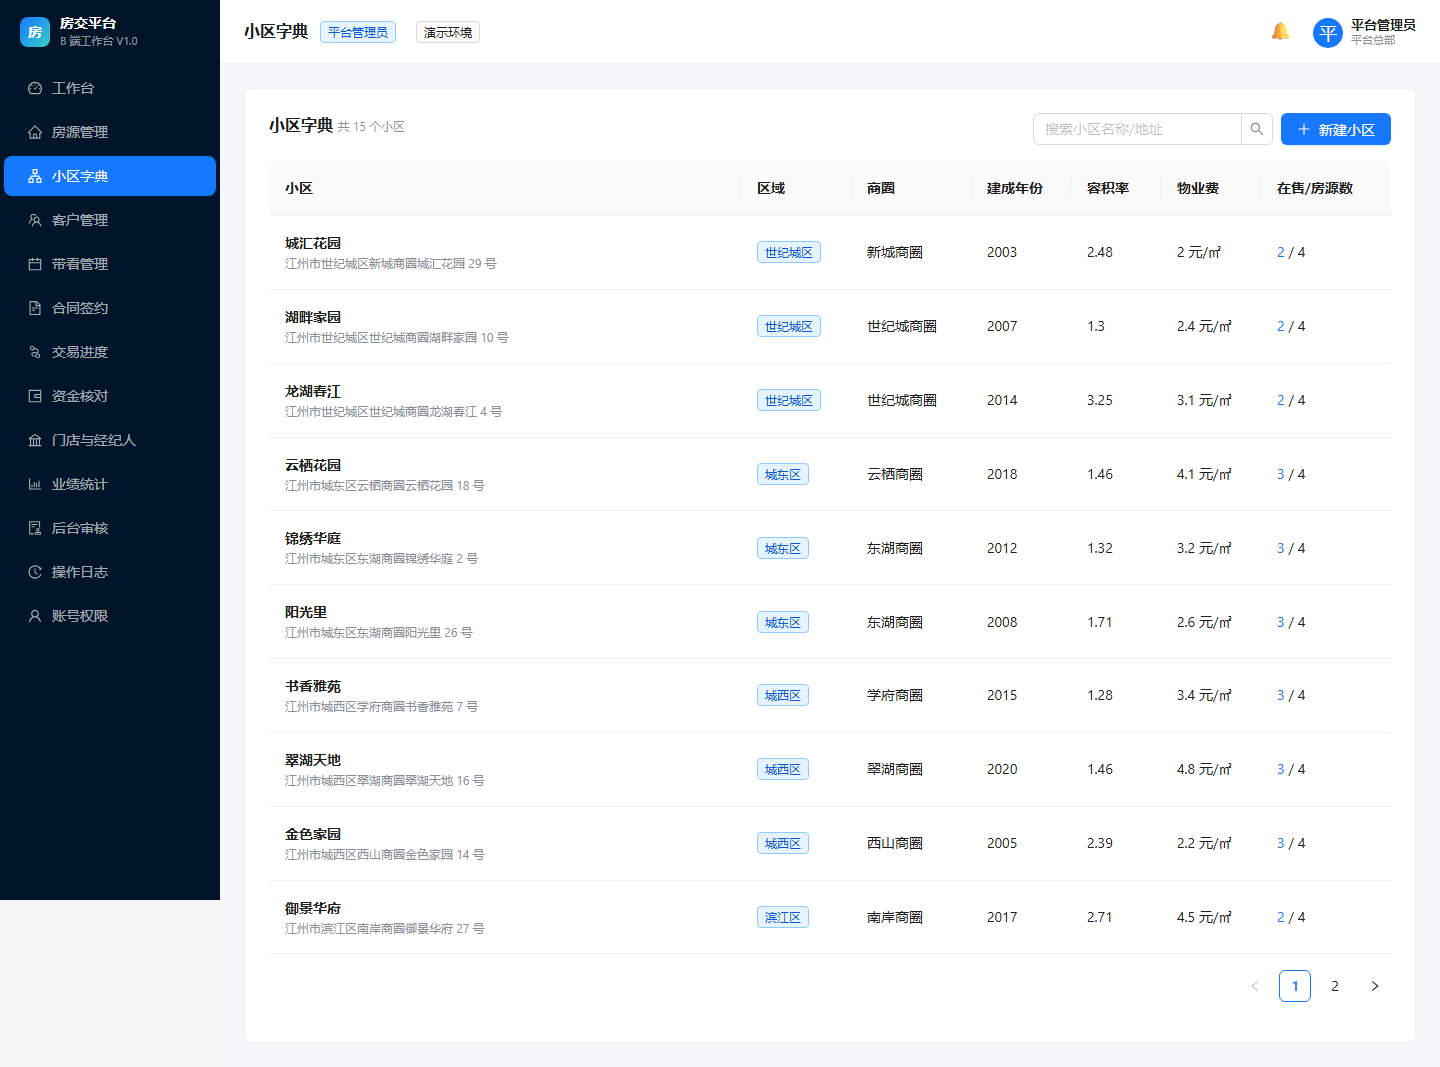
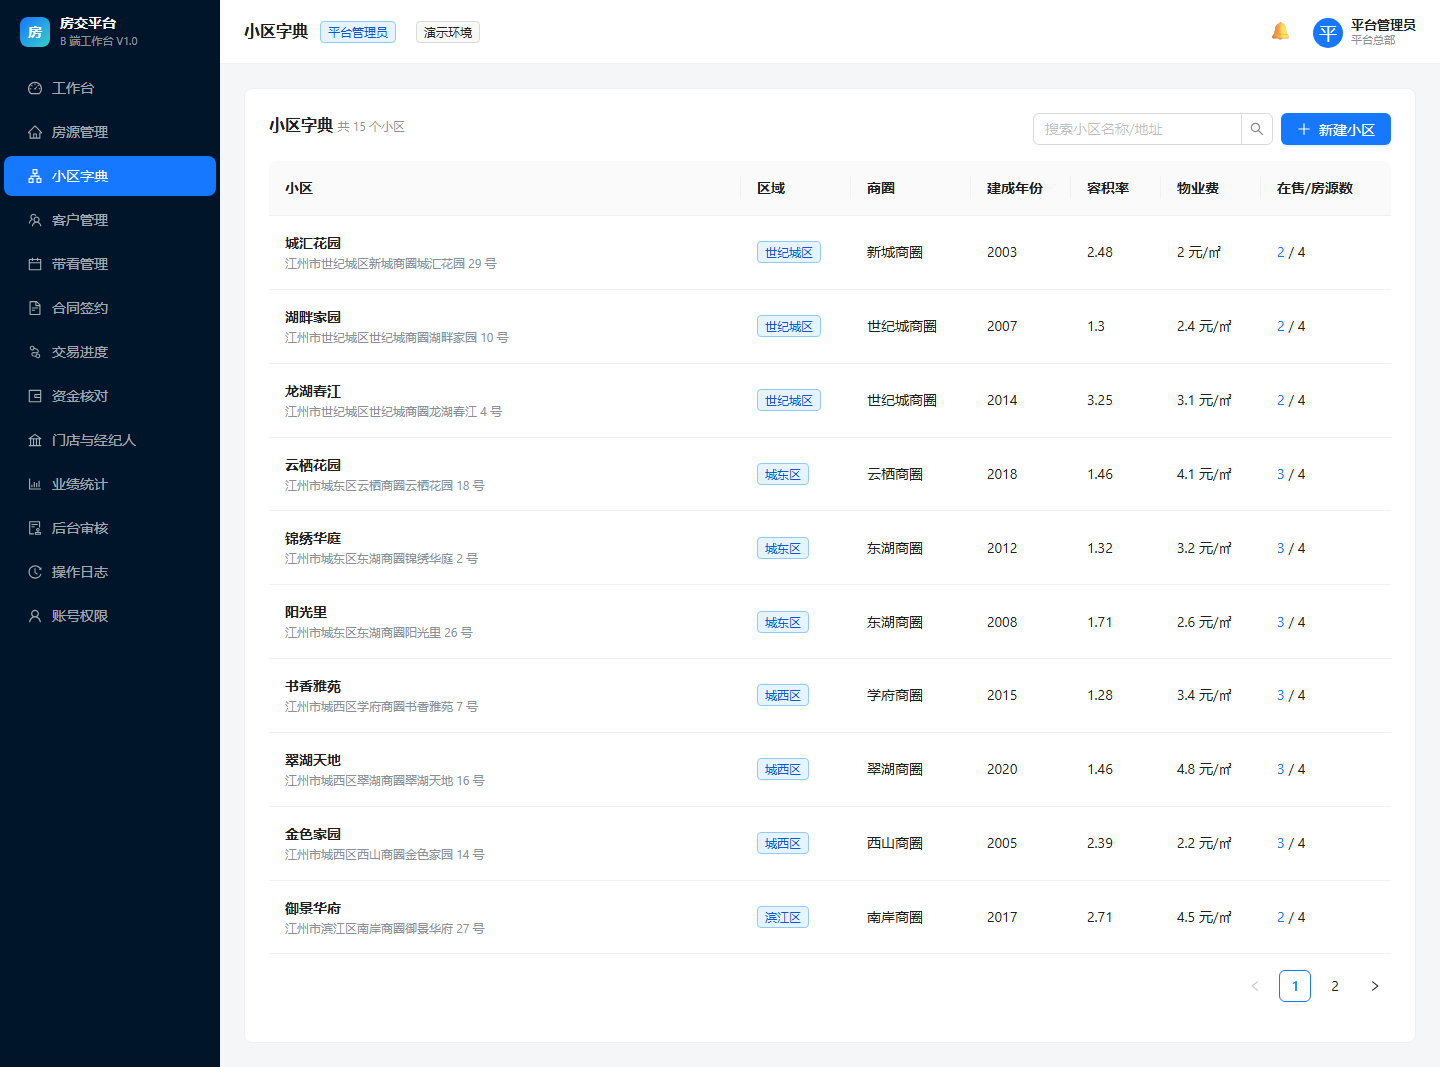
fix(web): 修复 B 端侧边栏背景未随内容高度拉伸（长页面滚动后左侧出现白色断档）

Changed region(s): [[0.0, 0.8351, 0.1562, 1.0]]

diff --git a/web/src/pages/b/AdminLayout.tsx b/web/src/pages/b/AdminLayout.tsx
@@ -81,31 +81,44 @@ export default function AdminLayout(): JSX.Element {
 
   return (
     <Layout style={{ minHeight: '100vh' }}>
-      <Sider width={220} theme="dark" style={{ position: 'sticky', top: 0, height: '100vh' }}>
-        <div style={{ height: 64, display: 'flex', alignItems: 'center', gap: 10, padding: '0 20px', color: '#fff' }}>
-          <div
-            style={{
-              width: 30,
-              height: 30,
-              borderRadius: 8,
-              background: 'linear-gradient(135deg,#1677ff,#36cfc9)',
-              display: 'flex',
-              alignItems: 'center',
-              justifyContent: 'center',
-              fontWeight: 700,
-            }}
-          >
-            房
+      {/* 侧边栏背景随内容高度拉伸；菜单在整列内吸顶滚动，避免长页面下方出现白色断档 */}
+      <Sider width={220} theme="dark" style={{ overflow: 'hidden' }}>
+        <div
+          style={{
+            position: 'sticky',
+            top: 0,
+            height: '100vh',
+            overflowY: 'auto',
+            overflowX: 'hidden',
+            display: 'flex',
+            flexDirection: 'column',
+          }}
+        >
+          <div style={{ height: 64, display: 'flex', alignItems: 'center', gap: 10, padding: '0 20px', color: '#fff', flexShrink: 0 }}>
+            <div
+              style={{
+                width: 30,
+                height: 30,
+                borderRadius: 8,
+                background: 'linear-gradient(135deg,#1677ff,#36cfc9)',
+                display: 'flex',
+                alignItems: 'center',
+                justifyContent: 'center',
+                fontWeight: 700,
+              }}
+            >
+              房
+            </div>
+            <div>
+              <div style={{ fontSize: 14, fontWeight: 700, lineHeight: 1.2 }}>房交平台</div>
+              <div style={{ fontSize: 11, color: 'rgba(255,255,255,0.55)' }}>B 端工作台 V1.0</div>
+            </div>
           </div>
-          <div>
-            <div style={{ fontSize: 14, fontWeight: 700, lineHeight: 1.2 }}>房交平台</div>
-            <div style={{ fontSize: 11, color: 'rgba(255,255,255,0.55)' }}>B 端工作台 V1.0</div>
-          </div>
+          <Menu theme="dark" mode="inline" selectedKeys={[selectedKey]} items={menuItems} style={{ borderInlineEnd: 'none', flex: 1 }} />
         </div>
-        <Menu theme="dark" mode="inline" selectedKeys={[selectedKey]} items={menuItems} style={{ borderInlineEnd: 'none' }} />
       </Sider>
 
-      <Layout>
+      <Layout style={{ minWidth: 0 }}>
         <Header
           style={{
             background: '#fff',
